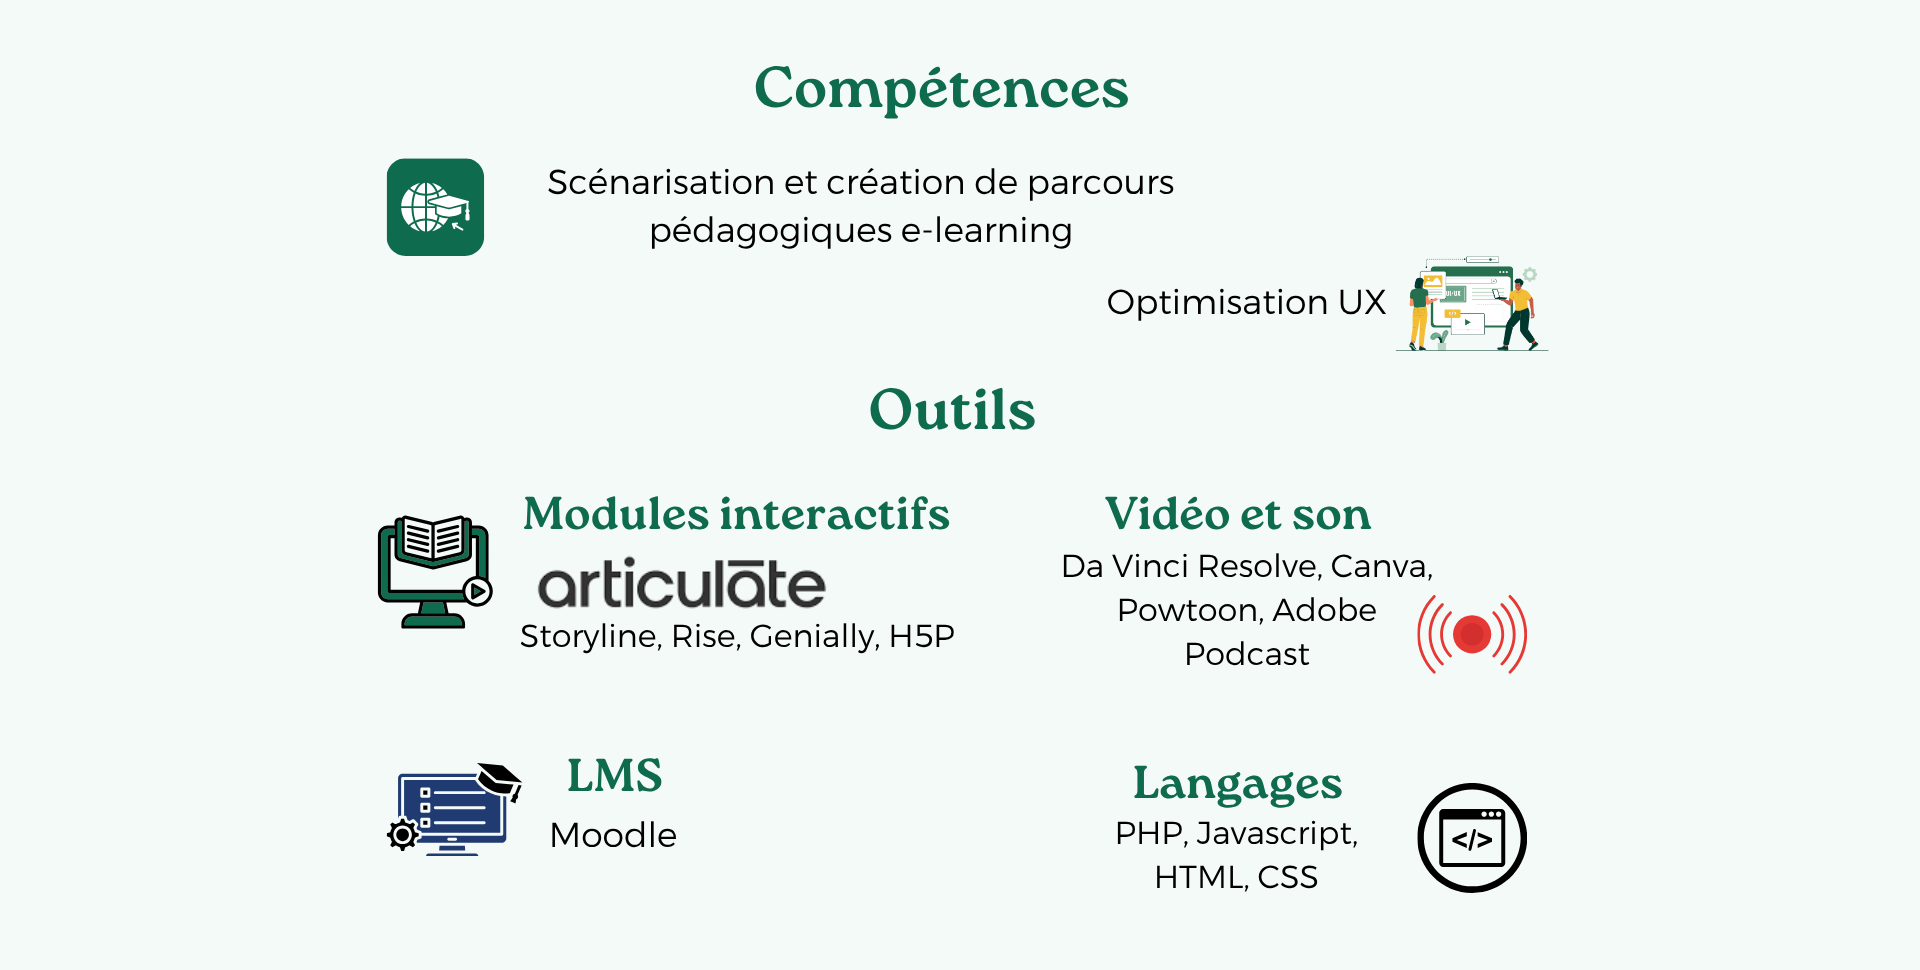
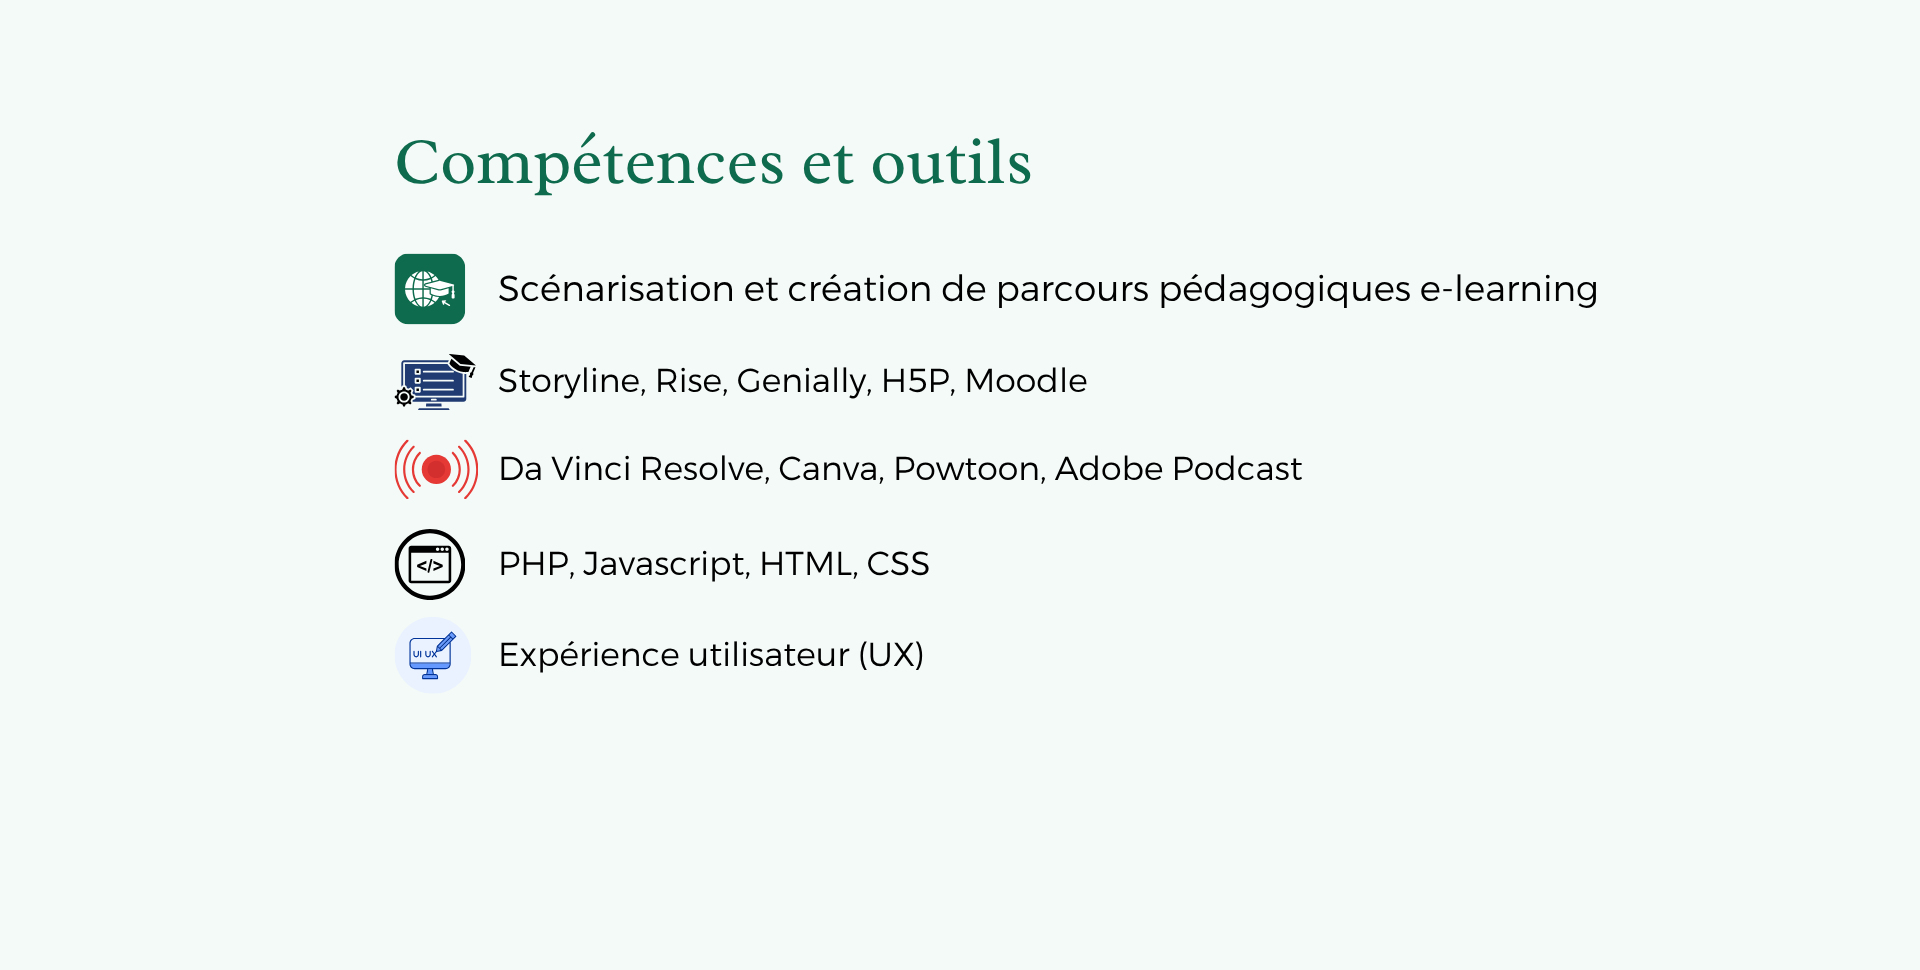
Add files via upload

diff --git a/index.html b/index.html
@@ -64,6 +64,13 @@
   .flip-card-back img{width:100%;height:100%;object-fit:cover;display:block}
   /* Make flip-card clickable (indicate affordance) */
   .flip-card{cursor:pointer}
+  /* CV fixes: prevent frame/content from changing size */
+  #cv > .panel-card{background:transparent;box-shadow:none;padding:0}
+  #cv .flip-card{max-width:980px;margin:12px auto;width:100%;aspect-ratio:4/3;position:relative}
+  #cv .flip-card-inner{height:100%}
+  #cv .flip-card-front,#cv .flip-card-back{position:absolute;inset:0;border-radius:12px;overflow:hidden;background:none;box-shadow:0 6px 22px rgba(12,20,30,0.06)}
+  #cv .full-screen-img{width:100%;height:100%;object-fit:cover;display:block}
+  #cv .flip-card-front .content,#cv .flip-card-back .content{height:100%;overflow:auto;padding:18px;box-sizing:border-box}
   </style>
 </head>
 <body>
@@ -72,7 +79,6 @@
     <nav class="minimal-nav" id="main-nav">
       <a href="#projets">Portfolio</a>
       <a href="#venir">À venir</a>
-      <a href="#cv">Compétences</a>
       <a href="#accueil">À propos</a>    
       <!--<a href="contact.html">Contact</a>-->
       <div style="margin-left:auto">
@@ -189,32 +195,37 @@
       </article>
     </div>
   </section>
-  <section id="cv" class="full-screen-section">
-    <div class="panel-card panel-card--muted">
-    <img src="comp1.png" class="full-screen-img" alt="Compétences"> 
-  </section>
+  <!-- Compétences section removed per user request -->
     <section id="accueil" class="hero" tabindex="-1" style="padding:2.5rem 1rem;position:relative;">
-      <!-- Remplacement du contenu: panneau image + texte -->
-           <h2>💡 À propos de moi</h2>
-  <div class="flip-card" id="about-flip" role="button" aria-pressed="false" tabindex="0" title="Tourner la page">
-    <div class="flip-card-inner">
-      <div class="flip-card-front">
-        <div class="about-panel">
-          <figure class="about-photo" aria-hidden="false">
-            <img src="photo1.jpeg" alt="Portrait de Shaiane Neves">
-          </figure>
-          <div class="about-text">
-            <p class="lead">Je suis Shaiane Neves, une exploratrice du e‑learning, passionnée par l’apprentissage en autonomie.</p>
-            <p>J’imagine des parcours de formation vivants, interactifs et inclusifs, où chaque apprenant devient acteur de son apprentissage.</p>
-            <p>Mon ambition : rendre le savoir accessible à tous, avec une touche de créativité et beaucoup de sens.</p>
-          </div>
+      <!-- À propos propre + images comp.png et exp.png insérées en dessous -->
+      <h2>💡 À propos de moi</h2>
+      <div class="about-panel">
+        <figure class="about-photo" aria-hidden="false">
+          <img src="photo1.jpeg" alt="Portrait de Shaiane Neves">
+        </figure>
+        <div class="about-text">
+          <p class="lead">Je suis Shaiane Neves, une exploratrice du e‑learning, passionnée par l’apprentissage en autonomie.</p>
+          <p>J’imagine des parcours de formation vivants, interactifs et inclusifs, où chaque apprenant devient acteur de son apprentissage.</p>
+          <p>Mon ambition : rendre le savoir accessible à tous, avec une touche de créativité et beaucoup de sens.</p>
         </div>
+        <button class="scroll-indicator" id="about-scroll" aria-label="Voir plus">
+          <svg viewBox="0 0 24 24" fill="none" aria-hidden="true" focusable="false">
+            <path d="M6 9l6 6 6-6" stroke="currentColor" stroke-width="2" stroke-linecap="round" stroke-linejoin="round"/>
+          </svg>
+        </button>
       </div>
-      <div class="flip-card-back" aria-hidden="true">
-        <img src="exp.png" alt="Expérience / illustration">
+
+      <!-- Images demandées: comp.png puis exp.png -->
+         <div>
+      <div class="about-images" style="max-width:980px;margin:20px auto;display:flex;flex-direction:column;gap:18px;align-items:center;">
+        <img src="comp.png" alt="Compétences (comp.png)">
+      </div> 
       </div>
-    </div>
-  </div>
+    <div>      
+    <div class="about-images" style="max-width:980px;margin:20px auto;display:flex;flex-direction:column;gap:18px;align-items:center;">
+        <img src="exp.png" alt="Expérience (exp.png)">
+      </div>
+      </div>
     </section>
   <main class="contact-root">
   <div class="panel-card">
@@ -290,6 +301,35 @@
       flip.addEventListener('click', toggleFlip);
       flip.addEventListener('keydown', (e)=>{
         if(e.key === 'Enter' || e.key === ' ') { e.preventDefault(); toggleFlip(); }
+      });
+    })();
+
+    // Flip-card interaction for CV panel (comp.png front, exp.png back)
+    (function(){
+      const flip = document.getElementById('cv-flip');
+      if(!flip) return;
+      function toggleFlip(){
+        flip.classList.toggle('is-flipped');
+        const pressed = flip.classList.contains('is-flipped');
+        flip.setAttribute('aria-pressed', pressed ? 'true' : 'false');
+      }
+      flip.addEventListener('click', toggleFlip);
+      flip.addEventListener('keydown', (e)=>{
+        if(e.key === 'Enter' || e.key === ' ') { e.preventDefault(); toggleFlip(); }
+      });
+    })();
+
+    // Scroll indicator behavior: scroll to first .about-images when clicked
+    (function(){
+      const btn = document.getElementById('about-scroll');
+      const target = document.querySelector('.about-images');
+      if(!btn || !target) return;
+      // animate a few times to attract attention
+      btn.classList.add('animate');
+      // stop animation after some time
+      setTimeout(()=> btn.classList.remove('animate'), 6000);
+      btn.addEventListener('click', ()=>{
+        target.scrollIntoView({behavior:'smooth', block:'start'});
       });
     })();
   </script>

diff --git a/style.css b/style.css
@@ -203,6 +203,56 @@ section { padding: 48px 24px; }
   box-shadow: 0 8px 30px rgba(2,6,23,0.06);
 }
 
+/* Scroll indicator (small down arrow) placed at bottom-center of about-panel */
+.about-panel{ position: relative; }
+.scroll-indicator{
+  position: absolute;
+  left: 50%;
+  transform: translateX(-50%);
+  bottom: -18px;
+  width: 40px;
+  height: 40px;
+  display:flex;
+  align-items:center;
+  justify-content:center;
+  background: white;
+  border-radius: 20px;
+  box-shadow: 0 6px 18px rgba(2,6,23,0.08);
+  border: 1px solid rgba(15,23,36,0.06);
+  cursor: pointer;
+  color: var(--color-accent);
+  transition: transform .22s ease, opacity .2s ease;
+}
+.scroll-indicator:hover{ transform: translateX(-50%) translateY(-3px); }
+.scroll-indicator svg{ width:18px; height:18px; display:block; }
+
+/* subtle bounce to draw attention */
+.scroll-indicator.animate{ animation: bounce 2.4s infinite; }
+@keyframes bounce{ 0%,20%,50%,80%,100%{ transform:translateX(-50%) translateY(0);} 40%{ transform:translateX(-50%) translateY(-6px);} 60%{ transform:translateX(-50%) translateY(-3px);} }
+
+/* Small button between images */
+.between-images-btn{
+  all: unset; /* reset */
+  display:inline-flex;
+  align-items:center;
+  justify-content:center;
+  width:44px;
+  height:44px;
+  border-radius:22px;
+  background:#fff;
+  box-shadow:0 6px 18px rgba(2,6,23,0.08);
+  border:1px solid rgba(15,23,36,0.06);
+  color:var(--color-accent,#0f6b4d);
+  cursor:pointer;
+  transition:transform .16s ease;
+}
+.between-images-btn svg{width:18px;height:18px;}
+.between-images-btn:active{ transform:translateY(1px); }
+
+@media (max-width:720px){
+  .between-images-btn{ width:40px;height:40px;border-radius:20px }
+}
+
 /* Photo */
 .about-photo {
   flex: 0 0 auto;
@@ -284,4 +334,57 @@ section { padding: 48px 24px; }
     max-height: 60vh;
   }
   .about-text { padding-top: 12px; }
+}
+
+/* Make the inserted comp/exp images use the same framed size as the about-photo */
+.about-images{
+  max-width: 1200px;
+  margin: 20px auto;
+  padding: 40px;
+  display: flex;
+  flex-direction: column;
+  gap: 18px;
+  align-items: center;
+  background: var(--color-bg, #F4FAF7);
+  border-radius: 12px;
+  box-shadow: 0 8px 30px rgba(2,6,23,0.06);
+}
+
+.about-images img{
+  width: 100%;
+  height: auto;
+  object-fit: cover;
+  border-radius: 8px;
+  box-shadow: none;
+  border: none;
+}
+
+@media (max-width:1000px) {
+  .about-images{ padding: 28px; }
+}
+
+@media (max-width:720px) {
+  .about-images{ padding: 20px; }
+  .about-images img{ width: min(68vw, 360px); height: auto; max-height: 60vh; }
+}
+
+/* Option A: make the image cover the whole .about-images panel */
+.about-images{
+  position:relative;
+  width:100%;
+  max-width:980px;
+  margin:20px auto;
+  padding:0; /* image will be full-bleed inside */
+  aspect-ratio: 4/3; /* panel shape */
+  overflow:hidden;
+  border-radius:12px;
+  background: var(--color-bg, #F4FAF7);
+}
+.about-images img{
+  position:absolute;
+  inset:0;
+  width:100%;
+  height:100%;
+  object-fit:cover; /* cover the panel */
+  display:block;
 }
